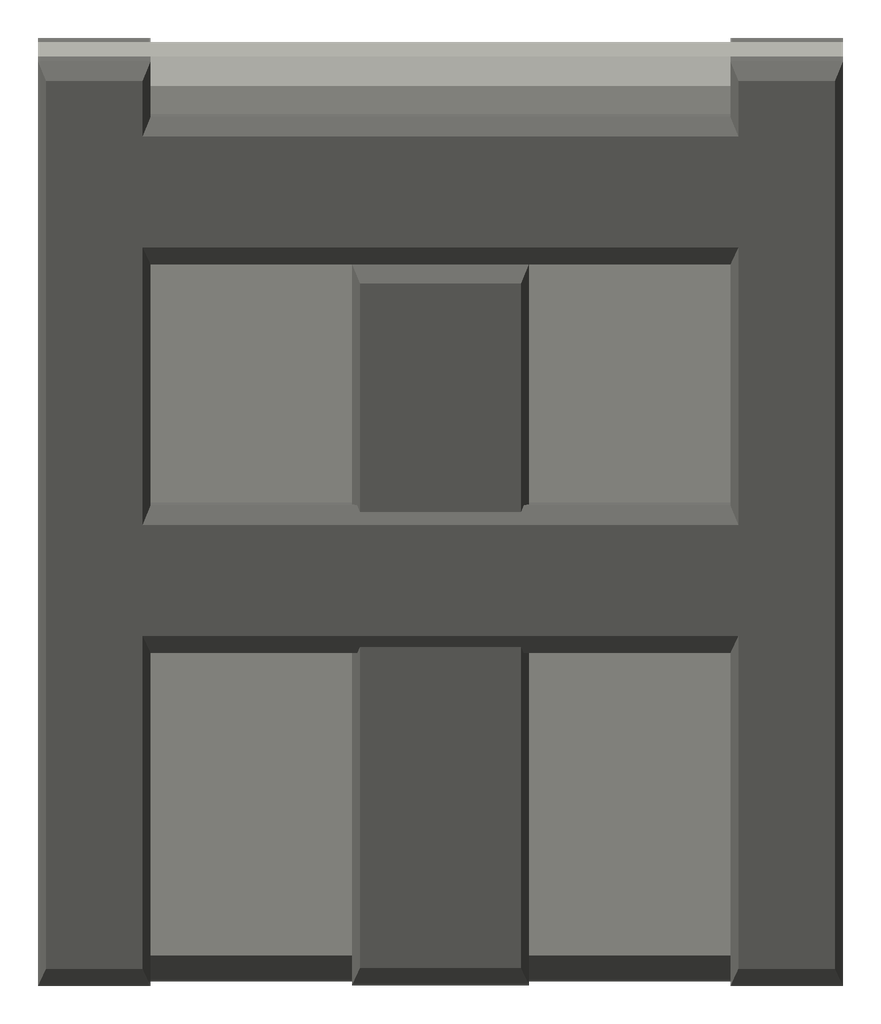
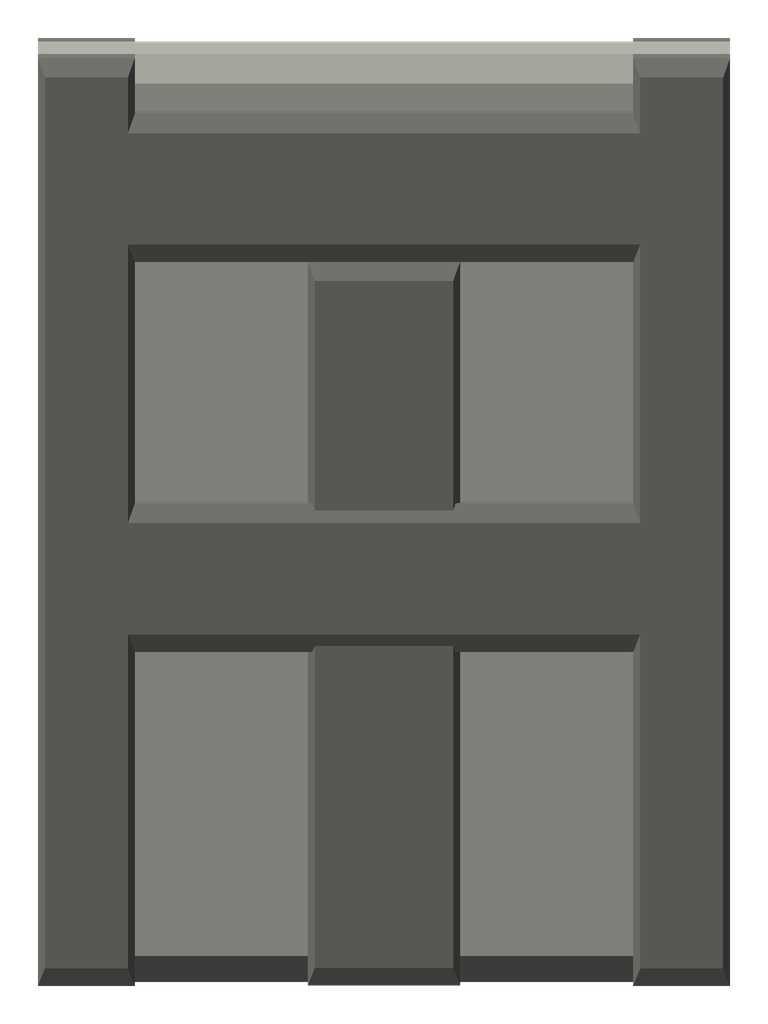
A higher jump, and the open quest panel always shows every row
The open panel dropped rows on landscape frames 360-400px tall (two of three at
844x360, 780x370, 900x380); it now takes the wordmark's band whenever every row
cannot fit under it.

The jump is raised in the model, not in the drawing: JUMP_APEX 430 -> 560 with
JUMP_AIR_MS 700 -> 800 (gravity unchanged), blocking re-derived 802 -> 932 with the
barrier art re-rendered at the new aspect, CRITTER_JUMP_WINDOW 0.45 -> 0.62 so the
frog keeps its size, and RAMP_APEX 1200 -> 1330 so a ramp still clears the taller
barrier for about half its flight.

Claude-Session: https://claude.ai/code/session_01T5KUzuAfHcKnikLbNgRzxV

diff --git a/src/run/constants.ts b/src/run/constants.ts
@@ -633,8 +633,13 @@ export const MAX_ATTAINABLE_SPEED = SPEED_CAP * FEVER_SPEED_FACTOR
  * It lengthens `FLIGHT_LENGTH_Z` by the same 13%, and `provePassable` reads that directly — a
  * jump-only row commits the snail to the air for the whole flight, so everything inside it has to
  * be clearable from the air too. That check does the accounting; nothing here has to.
+ *
+ * **Raised again, 700 -> 800, with the apex 430 -> 560, for the same reason and by the same rule.**
+ * Gravity comes out at 7000 against 7020, i.e. the same jump taken higher rather than a snappier
+ * one — and, the half that matters most, the ramp's own flight is solved through this gravity, so
+ * holding it holds the ramp to within a third of a percent.
  */
-export const JUMP_AIR_MS = 700
+export const JUMP_AIR_MS = 800
 
 /**
  * Apex height above the road, in world units.
@@ -648,8 +653,16 @@ export const JUMP_AIR_MS = 700
  * Raised from 320 to 430 because a snail that barely clears a barrel does not read as jumping.
  * Every band moved with it — see `OBSTACLE_BANDS` — so the inequalities hold with the same margins
  * they had before rather than by a hair.
+ *
+ * **⚠ And raised again, 430 -> 560, off a phone held sideways: the snail should jump higher than
+ * it visually does.** Once heights were drawn on the sprite's own scale (`lift.ts`) the apex read
+ * as what it is on every frame — 1.39 snail heights — and the thing a player jumps most often, the
+ * frog, stands 343 tall: the feet cleared it by 87 units, 0.28 of a body, which is "almost catches"
+ * exactly. At 560 the apex is 1.81 heights and the frog is cleared by 0.69 of one. `blocking` is
+ * derived from this and grew with it (802 -> 932) so a jump still cannot *draw* clear of the tall
+ * barrier; the frog kept its size — see `CRITTER_JUMP_WINDOW`, which widened instead.
  */
-export const JUMP_APEX = 430
+export const JUMP_APEX = 560
 
 /**
  * Gravity and launch velocity — **solved from the two numbers above, never tuned directly.**
@@ -692,8 +705,10 @@ export const OBSTACLE_DEPTH = SEGMENT_LENGTH
  *
  * | band       | range        | outcome                                             |
  * |------------|--------------|-----------------------------------------------------|
- * | `low`      | `[0, 230]`   | cleared by a jump — the apex puts the foot at 430    |
- * | `blocking` | `[0, 802]`   | **cannot** be jumped; must be gone around           |
+ * | `low`      | `[0, 230]`   | cleared by a jump — the apex puts the foot at 560    |
+ * | `blocking` | `[0, 932]`   | **cannot** be jumped; must be gone around           |
+ *
+ * (932 since the apex went to 560; the history below speaks of 802, which was 430 + 372.)
  *
  * ## ⚠ `blocking` is taller than the snail ever gets, and 620 was not
  *

diff --git a/src/scenes/MainMenu.ts b/src/scenes/MainMenu.ts
@@ -624,9 +624,10 @@ export class MainMenu extends Phaser.Scene {
     const compact = this.compactLandscape(width, height, scale)
     const chipH = QUEST_CHIP.height * scale
     const x = compact && !this.quests.expanded ? this.purse.x + this.purse.width + QUEST_BOARD_GAP * scale : SIDE_MARGIN * scale
-    const y = compact
+    const underPurse = this.purse.y + this.purse.height + STACK_GAP * scale
+    let y = compact
       ? this.quests.expanded
-        ? this.purse.y + this.purse.height + STACK_GAP * scale
+        ? underPurse
         : this.purse.y + this.purse.height / 2 - chipH / 2
       : this.title.y + this.title.height / 2 + QUEST_BOARD_GAP * scale
     // **⚠ The board gives way where the column cannot hold both it and the button, and it is the
@@ -647,13 +648,22 @@ export class MainMenu extends Phaser.Scene {
     // is hidden while it is open**. That is what a dialog is; it is also what removes the hazard of
     // a tap on the panel's own blank space falling through to Play and starting a run, since a
     // hidden object is not hit-tested. The heading is the way back, and Play is one tap away again.
-    const tight = this.quests.expanded && (compact || y + questPanelSize(QUEST_SLOTS, scale, width, x).h > floor)
+    const panelH = questPanelSize(QUEST_SLOTS, scale, width, x).h
+    const tight = this.quests.expanded && (compact || y + panelH > floor)
+    const openFloor = height - this.nav.heightAt(width) - STACK_GAP * scale
+    // **⚠ And the stack's room was not always enough either.** Between 360 and ~400px tall — a phone
+    // sideways with its toolbar showing, not only the 300px webview — the panel still started under
+    // the wordmark, and the rows that did not fit were dropped: measured at 844x360, 780x370 and
+    // 900x380, two of three, reported as "only the first is visible". So wherever the open panel
+    // cannot hold every row under the wordmark, it takes the wordmark's band as well, exactly as the
+    // compact frame always did — the rule is "all of them, or the wordmark gives way", not a height.
+    const takesTitle = tight && (compact || y + panelH > openFloor)
+    if (takesTitle) y = underPurse
 
     this.stackCovered = tight
-    // Open on a compact frame, the panel has the wordmark's band too — so the wordmark goes with the
-    // stack. Hidden rather than drawn under, for the same reason the stack is.
-    this.title.setVisible(!(compact && tight))
-    this.quests.layout(x, y, width, scale, tight ? height - this.nav.heightAt(width) - STACK_GAP * scale : floor)
+    // Hidden rather than drawn under, for the same reason the stack is.
+    this.title.setVisible(!takesTitle)
+    this.quests.layout(x, y, width, scale, tight ? openFloor : floor)
   }
 
   /**

diff --git a/src/run/ramp.ts b/src/run/ramp.ts
@@ -44,12 +44,18 @@ import type { PlayerState } from './playerMotion'
 /**
  * How high a ramp throws the snail, in world units.
  *
- * **2.8x `JUMP_APEX`, and the multiple is what makes it a different verb.** The tallest obstacle
- * band tops out at 620; a jump's 430 is under that, which is the whole reason `blocking` exists as
- * a class. 1200 is comfortably over everything, so the middle of a ramp flight is the one time in
+ * **2.4x `JUMP_APEX`, and clearing `blocking` is what makes it a different verb.** The tallest
+ * obstacle band tops out at 932; a jump's 560 is under that, which is the whole reason `blocking`
+ * exists as a class. 1330 is comfortably over everything, so the middle of a ramp flight is the one time in
  * the game the road below simply does not apply.
+ *
+ * **1200 -> 1330 when the jump went 430 -> 560**, and it is the barrier that moved it, not the jump:
+ * `blocking` is derived from the apex and grew 802 -> 932, and at 1200 a ramp cleared that for 33%
+ * of its flight against the 49% the tumble fix bought. Keeping the ramp's old 398 units of margin
+ * over the tallest band gives it back (see `verify:ramp`). The multiple of a jump fell 2.8x -> 2.4x;
+ * what makes the ramp a different verb was always clearing `blocking`, which it still does.
  */
-export const RAMP_APEX = 1200
+export const RAMP_APEX = 1330
 
 /**
  * Launch velocity and air time, **solved from `RAMP_APEX` and the game's one gravity.**

diff --git a/src/run/critters.ts b/src/run/critters.ts
@@ -102,8 +102,14 @@ export const CRITTER_BASE_SPEED = SPEED_BASE * 0.35
  * jump is no longer a window to aim at but an instant to hit, and the one guarantee the whole
  * feature rests on — that a jump always answers a bug — is what goes. Growth past here has to come
  * out of the width, and the width is why a bug is now the flattest thing on the road.
+ *
+ * **0.45 -> 0.62 when `JUMP_APEX` went 430 -> 560, and it is the window that moved, not the frog.**
+ * The report was that the jump looked too low, and the frog is what a jump is most often taken
+ * over; holding its height (344.7 against 343.1) and letting the higher apex become daylight above
+ * it is the whole of the visible gain — and a wider window is only ever the easier direction, 496ms
+ * of a flight rather than 315. The ceiling argument above is unchanged: it is about 0.45 as a floor.
  */
-export const CRITTER_JUMP_WINDOW = 0.45
+export const CRITTER_JUMP_WINDOW = 0.62
 
 /**
  * How much of the drivable road one bug may claim, at most.

diff --git a/src/run/tutorial.ts b/src/run/tutorial.ts
@@ -381,8 +381,8 @@ export function tutorialLayout(
   // thing the tutorial teaches is the thing the game actually deals.
   obstacles.push(...drawWall(at('wall'), nextObstacleId))
 
-  // A tall barrier, which a jump does not clear — `blocking.yHigh` is 620 against a `JUMP_APEX` of
-  // 430. Off the centreline with the road open past it, so "go around" is a move the player can
+  // A tall barrier, which a jump does not clear — `blocking.yHigh` is 932 against a `JUMP_APEX` of
+  // 560. Off the centreline with the road open past it, so "go around" is a move the player can
   // still make on the frame they finish reading the card.
   obstacles.push(
     createObstacle({

diff --git a/dev-assets/cc0-3d/barrier_render.py b/dev-assets/cc0-3d/barrier_render.py
@@ -71,7 +71,8 @@ YAW, PITCH = 0.0, 9.0
 # to be taller than the highest the mascot ever reaches, or the frame at the apex draws the snail
 # clear above the thing that just stopped it. `JUMP_APEX + PLAYER_BODY_H * 1.2` = 430 + 372. See
 # `OBSTACLE_BANDS` in src/run/constants.ts, which is where that arithmetic lives.
-TARGETS = {"low": 680 / 230, "blocking": 680 / 802}
+# And 932 since the apex went 430 -> 560: 560 + 372.
+TARGETS = {"low": 680 / 230, "blocking": 680 / 932}
 
 # How deep a barrier is, as a fraction of its own height. Thin, because these are boards.
 DEPTH = {"low": 0.55, "blocking": 0.13}

diff --git a/CLAUDE.md b/CLAUDE.md
@@ -15289,6 +15289,38 @@ Checked on the frame at 828x300 — menu collapsed and open, garage, records, sh
 the apex of a jump over a low block, and the result panel — and at 844x390, 384x744 and 1920x945 for
 regressions. 26 suites green.
 
+### ⚠ The open quest panel still dropped rows between 360 and ~400px tall
+
+Reported again after the round above: *only the first quest row is visible.* The compact mode covers
+frames under 360px; above that, the open panel still started under the wordmark, and `fitting`
+dropped whatever did not reach the nav bar — measured two of three at 844x360, 780x370 and 900x380,
+the heights of a phone sideways with its toolbar showing. The rule is now "all rows, or the wordmark
+gives way" rather than a height: wherever the open panel cannot hold every row under the title, it
+starts under the coin row and the title hides with the stack (`takesTitle` in `layoutQuests`). Three
+rows at every frame swept, 828x300 to 1920x945.
+
+### ⚠ The jump is higher, and it is a mechanic change, not a drawing one
+
+Reported in the same message: in landscape the snail should jump visibly higher. With heights on the
+sprite's own scale the apex read as exactly what it is — 1.39 heights — and the frog, the thing most
+often jumped, is 343 tall: the feet cleared it by 0.28 of a body, which is "almost catches".
+
+**A visual-only gain was not available.** The drawn box is the collision box; a lift drawn higher
+than the model shows the snail clear of a frog on frames the model hits it, and it breaks the rule
+that a jump may never *draw* clear of the tall barrier (a gain over ~1.14 does). So the model moved:
+
+| | before | after |
+|---|---|---|
+| `JUMP_APEX` | 430 (1.39 heights) | **560 (1.81)** |
+| `JUMP_AIR_MS` | 700 | **800** — gravity 7020 -> 7000, the same jump taken higher |
+| `blocking.yHigh` | 802 | **932**, derived; barrier art re-rendered at 0.73:1, not stretched |
+| `CRITTER_JUMP_WINDOW` | 0.45 | **0.62**, so the frog keeps its 343 and the apex becomes daylight |
+| `RAMP_APEX` | 1200 | **1330**, the old 398 of margin over `blocking`; clears it 46.8% of a flight |
+
+Three `verify:obstacles` fixtures had the old apex baked in as `PLAYER_BODY_H + 220`; they state the
+band against `JUMP_APEX` now. The difficulty table barely moves (blocking share 0.12 -> 0.11, from the
+longer flight `provePassable` has to prove). All 26 suites green.
+
 ## Known Issues Fixed
 
 Bugs and gotchas hit and fixed while building the platform/save/audio layers — recorded so they don't get
